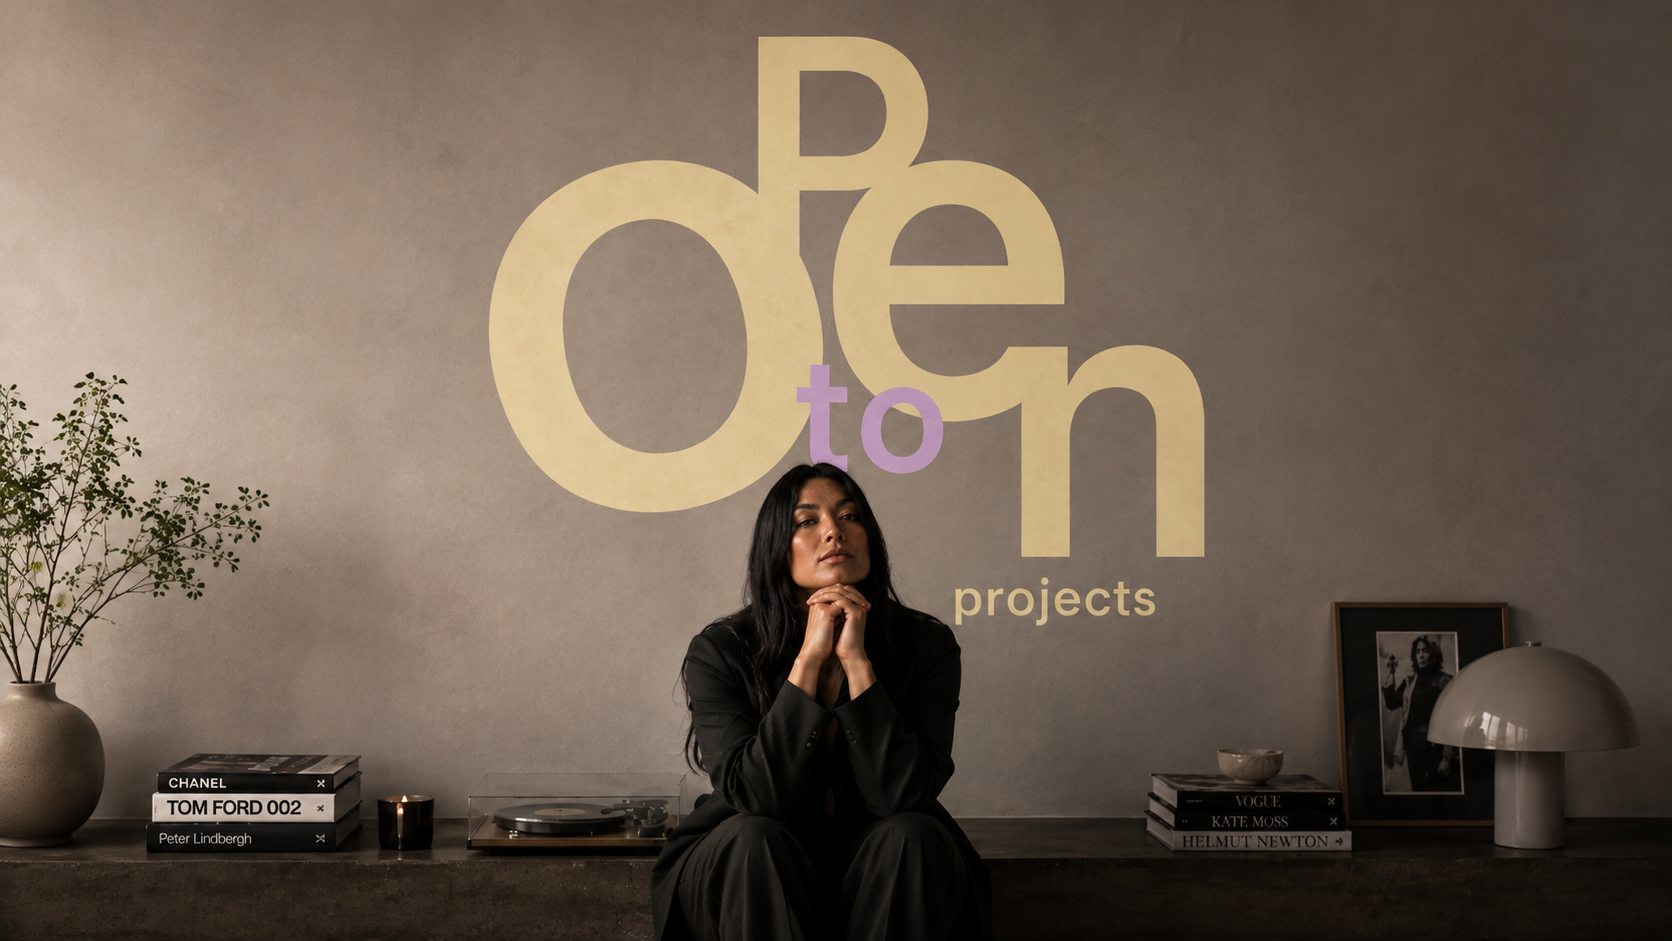
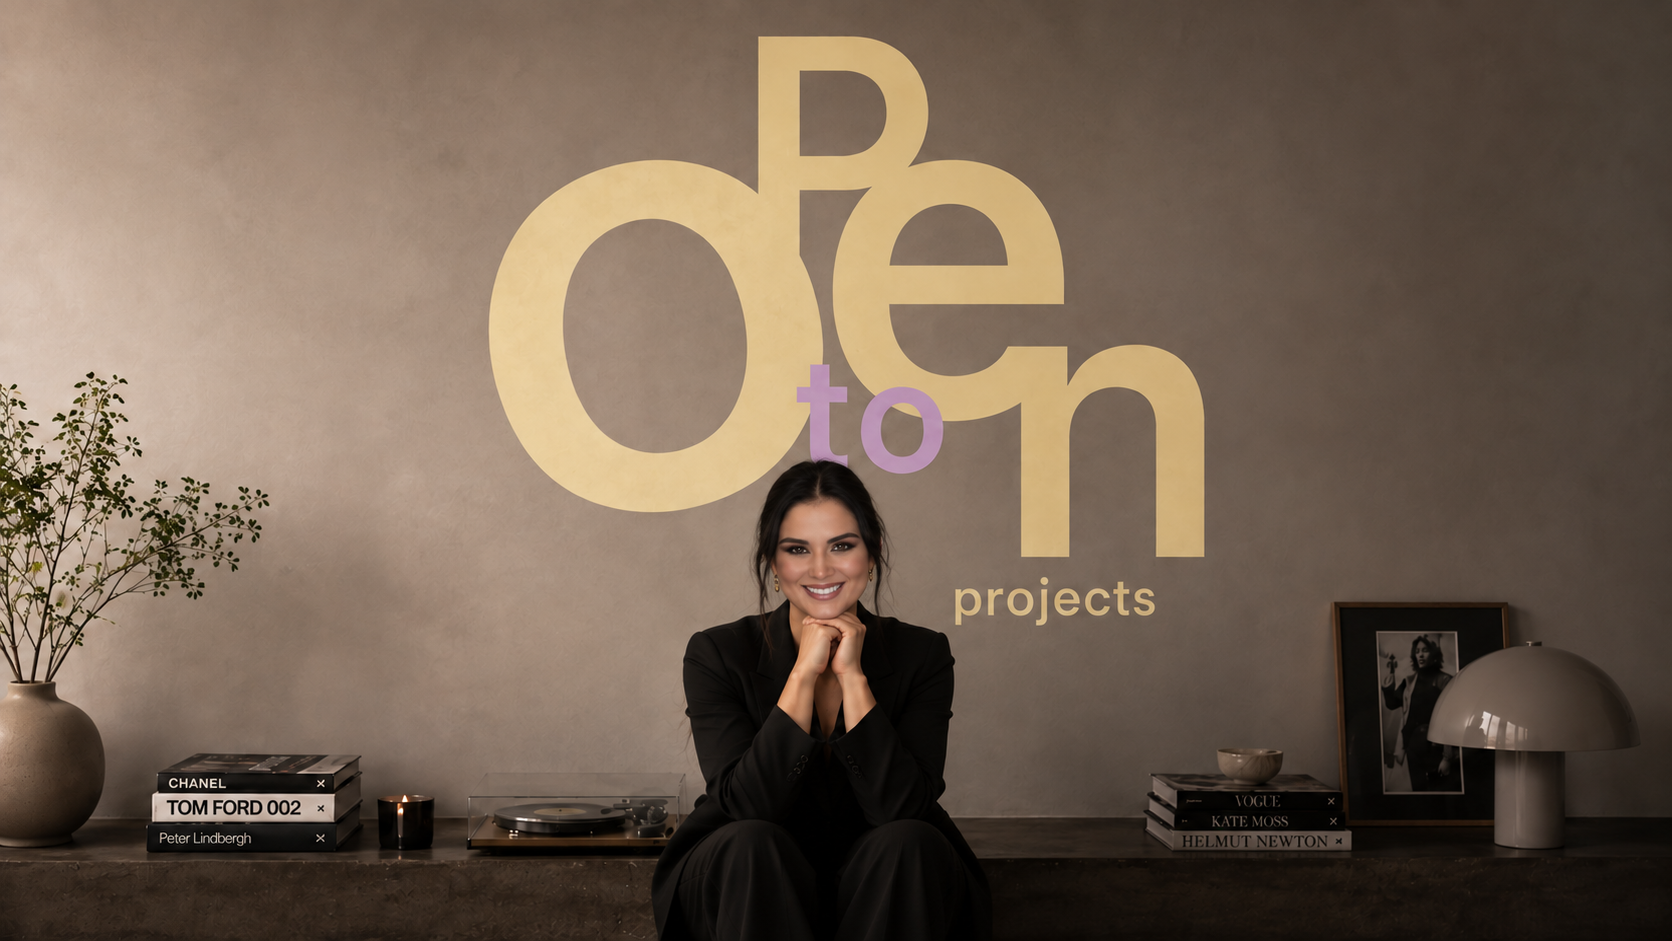
Add desktop and mobile hero final images, update contact image
- Desktop hero final replaced from the new 1672x941 frame (JPG, 338 KB)
- New portrait hero image for phones (<=560px), used as both the video
  poster and the end-of-video still via <picture> and a matchMedia switch
- New contact background; center it on the subject on phones and tablets
- Version query strings on replaced images so browsers refetch them

diff --git a/index.html b/index.html
@@ -10,7 +10,7 @@
   <link rel="preconnect" href="https://fonts.gstatic.com" crossorigin>
   <link href="https://fonts.googleapis.com/css2?family=Fraunces:ital,wght@0,400;0,500;0,600;1,400;1,500&family=Inter:wght@400;500;600;700&family=JetBrains+Mono:wght@400;500;600&display=swap" rel="stylesheet">
 
-  <link rel="stylesheet" href="styles.css?v=36" />
+  <link rel="stylesheet" href="styles.css?v=39" />
 </head>
 <body>
   <header class="site-header">
@@ -35,11 +35,14 @@
         <video
           class="hero-video"
           src="assets/hero.mp4"
-          poster="assets/hero-final.jpg"
+          poster="assets/hero-final.jpg?v=2"
           playsinline
           preload="auto"
         ></video>
-        <img class="hero-video-still" src="assets/hero-final.jpg" alt="" />
+        <picture>
+          <source media="(max-width: 560px)" srcset="assets/hero-final-mobile.jpg?v=1" />
+          <img class="hero-video-still" src="assets/hero-final.jpg?v=2" alt="" />
+        </picture>
         <div class="hero-scrim"></div>
       </div>
 
@@ -521,7 +524,7 @@
     </section>
 
     <section id="contact" class="contact shell">
-      <img class="contact-bg" src="assets/contact.png" alt="" />
+      <img class="contact-bg" src="assets/contact.png?v=2" alt="" />
       <div class="contact-scrim"></div>
 
       <div class="contact-heading">

diff --git a/script.js b/script.js
@@ -18,6 +18,13 @@ const heroStage = document.querySelector('.hero-media-stage');
 const heroSection = document.querySelector('.hero');
 const heroPlayBtn = document.querySelector('.hero-play');
 
+const heroPhoneMq = window.matchMedia('(max-width: 560px)');
+const setHeroPoster = () => {
+  if (heroVideo) heroVideo.poster = heroPhoneMq.matches ? 'assets/hero-final-mobile.jpg?v=1' : 'assets/hero-final.jpg?v=2';
+};
+setHeroPoster();
+heroPhoneMq.addEventListener('change', setHeroPoster);
+
 heroPlayBtn?.addEventListener('click', () => {
   if (!heroVideo) return;
   heroVideo.muted = false;

diff --git a/styles.css b/styles.css
@@ -1285,6 +1285,7 @@ blockquote cite { font-family: "JetBrains Mono", monospace; font-size: 11px; fon
 
   .contact { flex-direction: column; align-items: flex-start; min-height: 620px; }
   .contact-card { width: 100%; }
+  .contact-bg { object-position: 50% 20%; }
 
   .hero { padding: 56px 28px 0; }
   .hero-play { right: 28px; bottom: 96px; }
